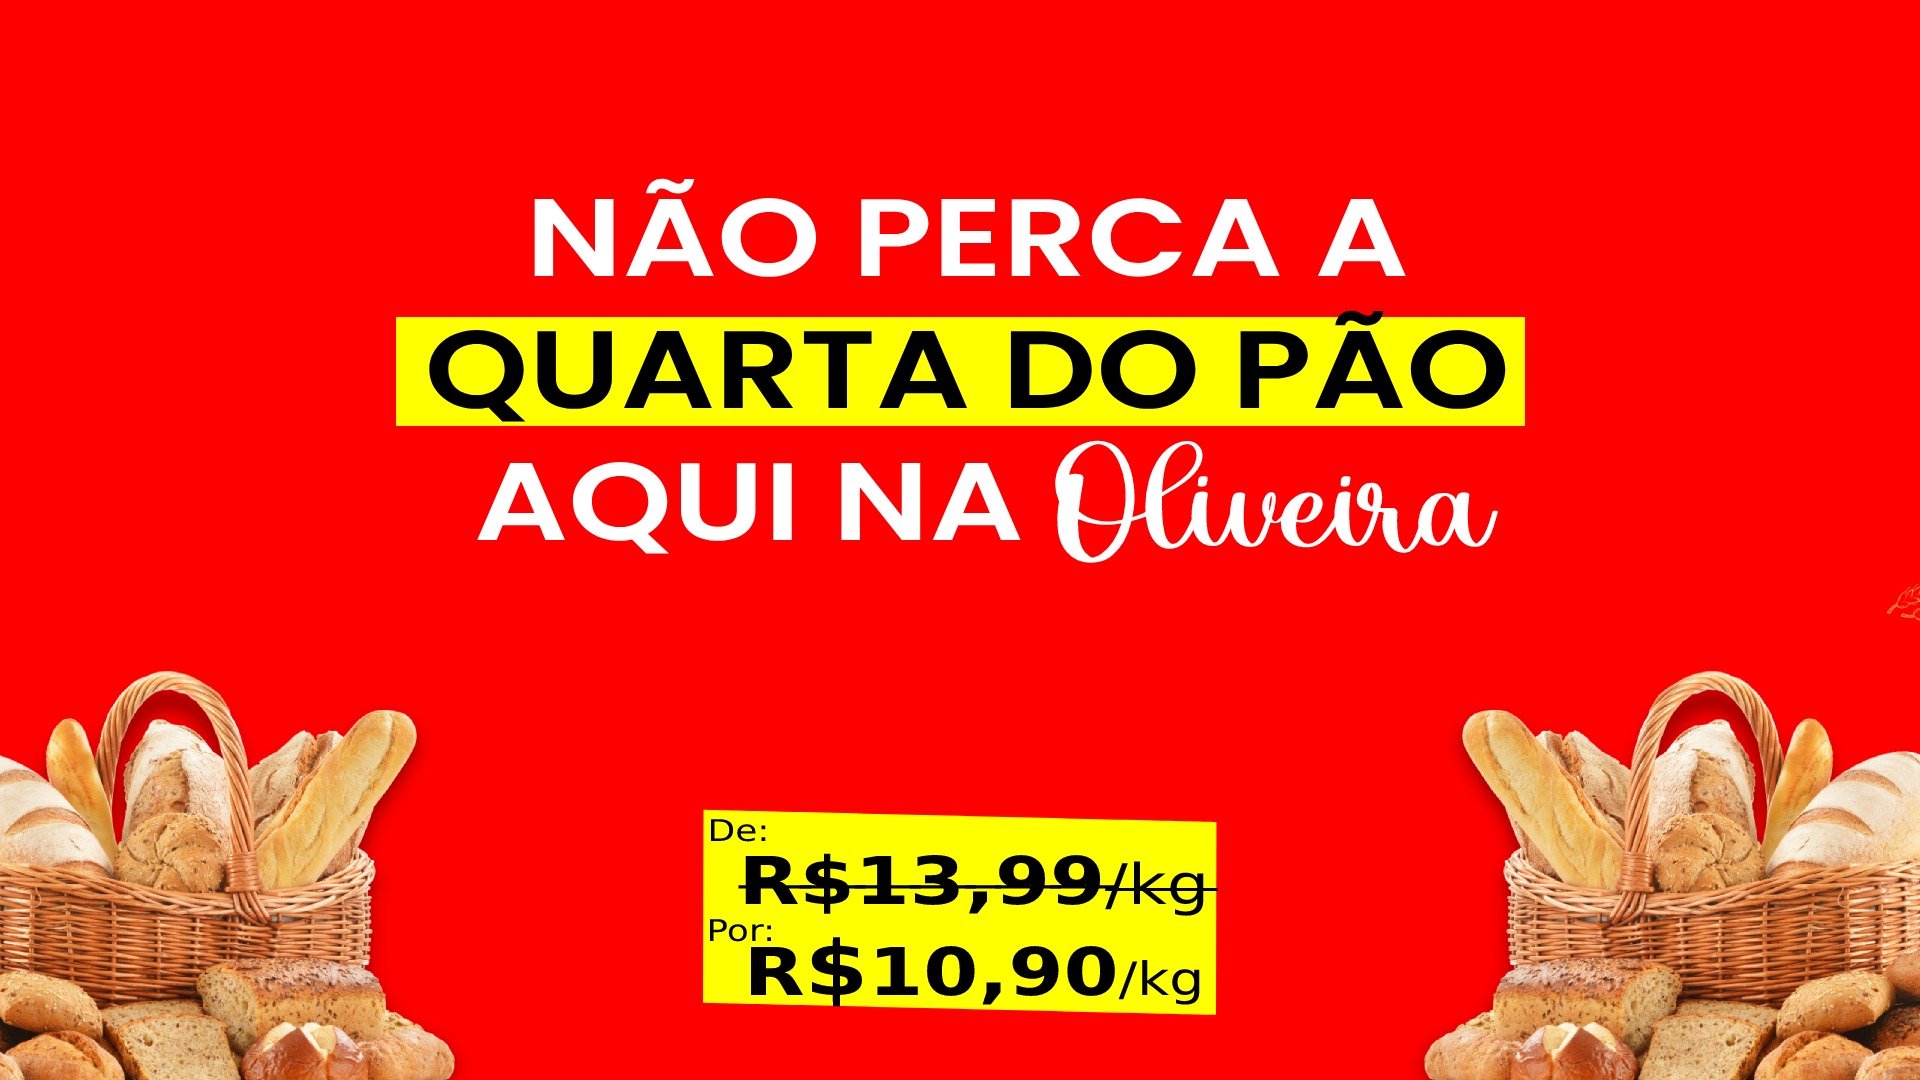
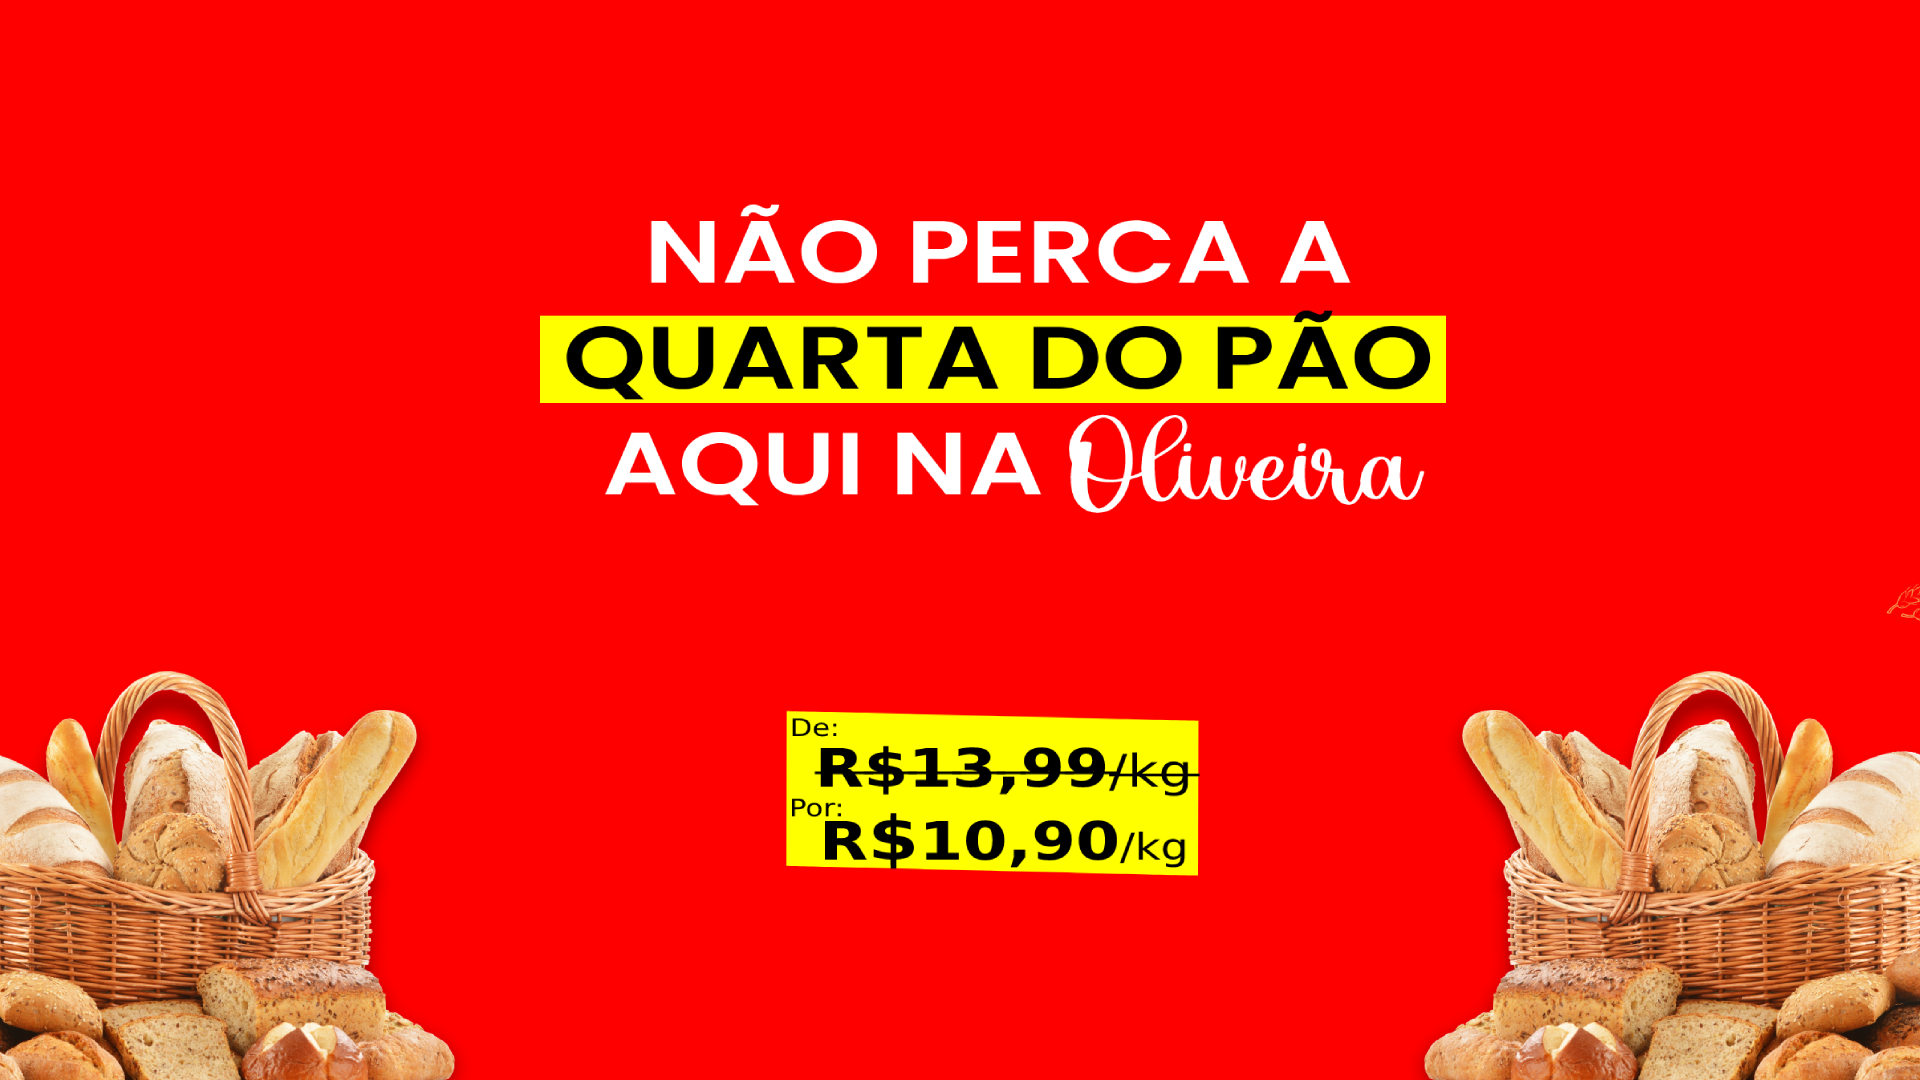
width das imagens atualizado

Changed region(s): [[0.1875, 0.1528, 0.8125, 0.5194], [0.3438, 0.6417, 0.6562, 0.9472]]

diff --git a/showAd.js b/showAd.js
@@ -23,4 +23,4 @@ setInterval(() => {
     counter++;
     if (counter === data.length) counter = 0;
 
-}, 8000)
+}, 8000); 
